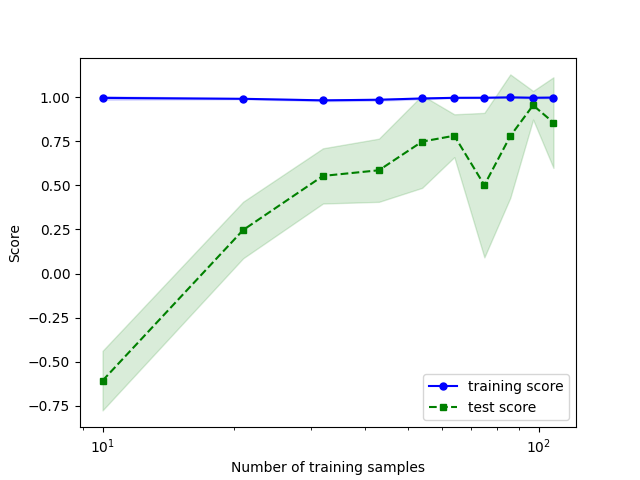
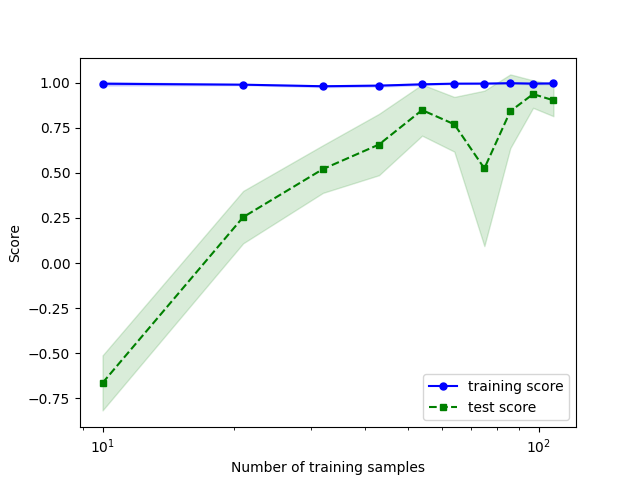
Grade packages encoding encode combined

diff --git a/clean_csv.py b/clean_csv.py
@@ -14,9 +14,9 @@ type_science = type_science.lower()[0]
 
 # just checking first letter as currenlt just me using so to help with typo management
 if type_science == 'c':
-    just_grades = full[df_columns.combined_columns()]
+    just_grades = full[df_columns.combined_full_original()]
 elif type_science == 't':
-    just_grades = full[df_columns.triple_columns()]
+    just_grades = full[df_columns.triple_full_original()]
 else:
     print('Neither selected')
 # to see what needs to be cleared
@@ -115,6 +115,10 @@ else:
             full_clean_grades[column] = full_clean_grades[column].map(convert_to_int)
 
 full_clean_grades['SEN bool'] = full_clean_grades['SEN need(s)'].apply(lambda x: False if x == 'n' else True)
+
+drop = ['SEN need(s)']
+
+full_clean_grades = full_clean_grades.drop(drop, axis=1)
 
 pd.set_option('display.max_columns', None)
 

diff --git a/linear_regression.py b/linear_regression.py
@@ -17,10 +17,6 @@ learning_grades = pd.read_csv('csv_clean/' + file_name + '.csv')
 # determine the type of science, triple and combined have different headings
 type_science = input('Is it triple or combined? ')
 
-# uses code to return an encoded dataframe as well as an X and y catagory
-# does not predict new grades well, probable as there are grades this could not see
-# learning_grades, X, y = encoding.le_science(learning_grades, type_science)
-
 # the label encoder was not effective at creating predicted grades. When chaging to a one hot encoder the model became less effective
 # May be worth adding in new variables and seeing how this affects the data
 encoder, X, y = encoding.one_hot_fit(learning_grades, type_science)

diff --git a/random_forest.py b/random_forest.py
@@ -15,6 +15,8 @@ type_science = input('Is it triple or combined? ')
 
 encoder, X, y = encoding.one_hot_fit(learning_grades, type_science)
 
+y = y.values.ravel()
+
 # split the data into training and testing sets
 X_train, X_test, y_train, y_test = train_test_split(X, y, test_size=0.3, random_state=42)
 """
